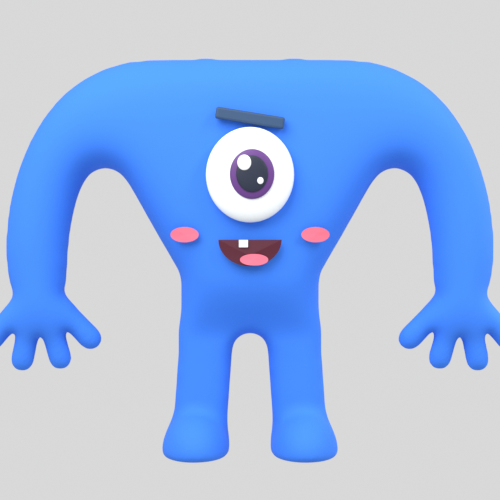
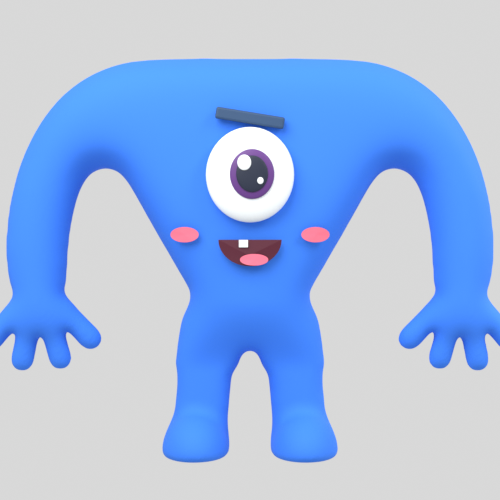
Тело жителя: туловище длиннее, ноги короче (как на прототипе), верх головы без бугорков
Claude-Session: https://claude.ai/code/session_01Gsst3hFuf1c6zM4f6Jt7o5

diff --git a/art_src/characters/build_body.py b/art_src/characters/build_body.py
@@ -20,13 +20,13 @@ PROTO = os.path.join(HERE, 'prototype_chatgpt.png')
 HEIGHT = 2.41          # от пола до макушки, м
 STEP = 0.01            # шаг 3D-сетки, м
 DEPTH = 0.385          # полутолщина туловища (лицо — чуть впереди, на y ≈ -0.40)
-HIP_Z = (0.7, 1.1)     # между этими высотами туловище сужается в толщину к ногам
+HIP_Z = (0.52, 0.95)    # между этими высотами туловище сужается в толщину к ногам
 HIP_DEPTH = 0.17
 PROFILE = 4.0          # как резко толщина упирается в DEPTH: больше — площе перед, туже края
-CROTCH = 0.74          # ниже — ноги не с картинки, а ровные трубки до ступней
+CROTCH = 0.56          # ниже — ноги не с картинки, а ровные трубки до ступней
 LEG_R = 0.162          # толщина ноги (как на картинке), м
 LEG_TOP_X = 0.25       # ось ноги вверху, внутри туловища (книзу чуть наружу — до FOOT_X)
-LEG_TOP_Z = 0.95
+LEG_TOP_Z = 0.78
 LEG_END_Z = 0.1        # полоса ноги — до ступни
 CROTCH_ROUND = 0.12    # скругление стыка ног с туловищем (снаружи и арка паха), м
 FOOT_X = 0.31          # ось ноги, м от середины
@@ -115,6 +115,12 @@ def build_mesh():
     inside = ndimage.distance_transform_edt(mask) * s
     outside = ndimage.distance_transform_edt(~mask) * s
     sd2 = ndimage.gaussian_filter(outside - inside, 3.0)   # < 0 внутри силуэта; без ступенек пикселей
+    # Верх головы и плечи — без мелких бугорков с картинки: там контур сглаживаем сильнее
+    # (пальцы и лицо ниже — не трогаем).
+    H = sd2.shape[0]
+    zrow = (bottom - np.arange(H)) * s
+    wtop = np.clip((zrow - 1.75) / 0.2, 0.0, 1.0)[:, None]
+    sd2 = sd2 * (1 - wtop) + ndimage.gaussian_filter(outside - inside, 14.0) * wtop
     # 3D-сетка в метрах → координаты в пикселях маски.
     xs = np.arange(-cxp * s, cxp * s, STEP)
     zs = np.arange(-0.02, HEIGHT + 0.06, STEP)
@@ -122,6 +128,10 @@ def build_mesh():
     X2, Z2 = np.meshgrid(xs, zs, indexing='ij')
     d2 = ndimage.map_coordinates(sd2, [bottom - Z2 / s, cxp + X2 / s], order=1, mode='nearest')
     g = _inflate(d2 < 0.0)
+    # Толщина считается по клеточкам — у края ступеньки; над плечами (рука и голова, пальцев нет)
+    # сглаживаем сильнее, иначе по верху головы мелкие бугорки.
+    wtop = np.clip((Z2 - 1.6) / 0.2, 0.0, 1.0)
+    g = g * (1 - wtop) + ndimage.gaussian_filter(g, 4.0) * wtop
     # Толще DEPTH не бывает — плоский перед под лицом; к паху туловище плавно тоньше (до толщины
     # ног), иначе на стыке с ногами — уступ.
     t = np.clip((Z2 - HIP_Z[0]) / (HIP_Z[1] - HIP_Z[0]), 0.0, 1.0)
